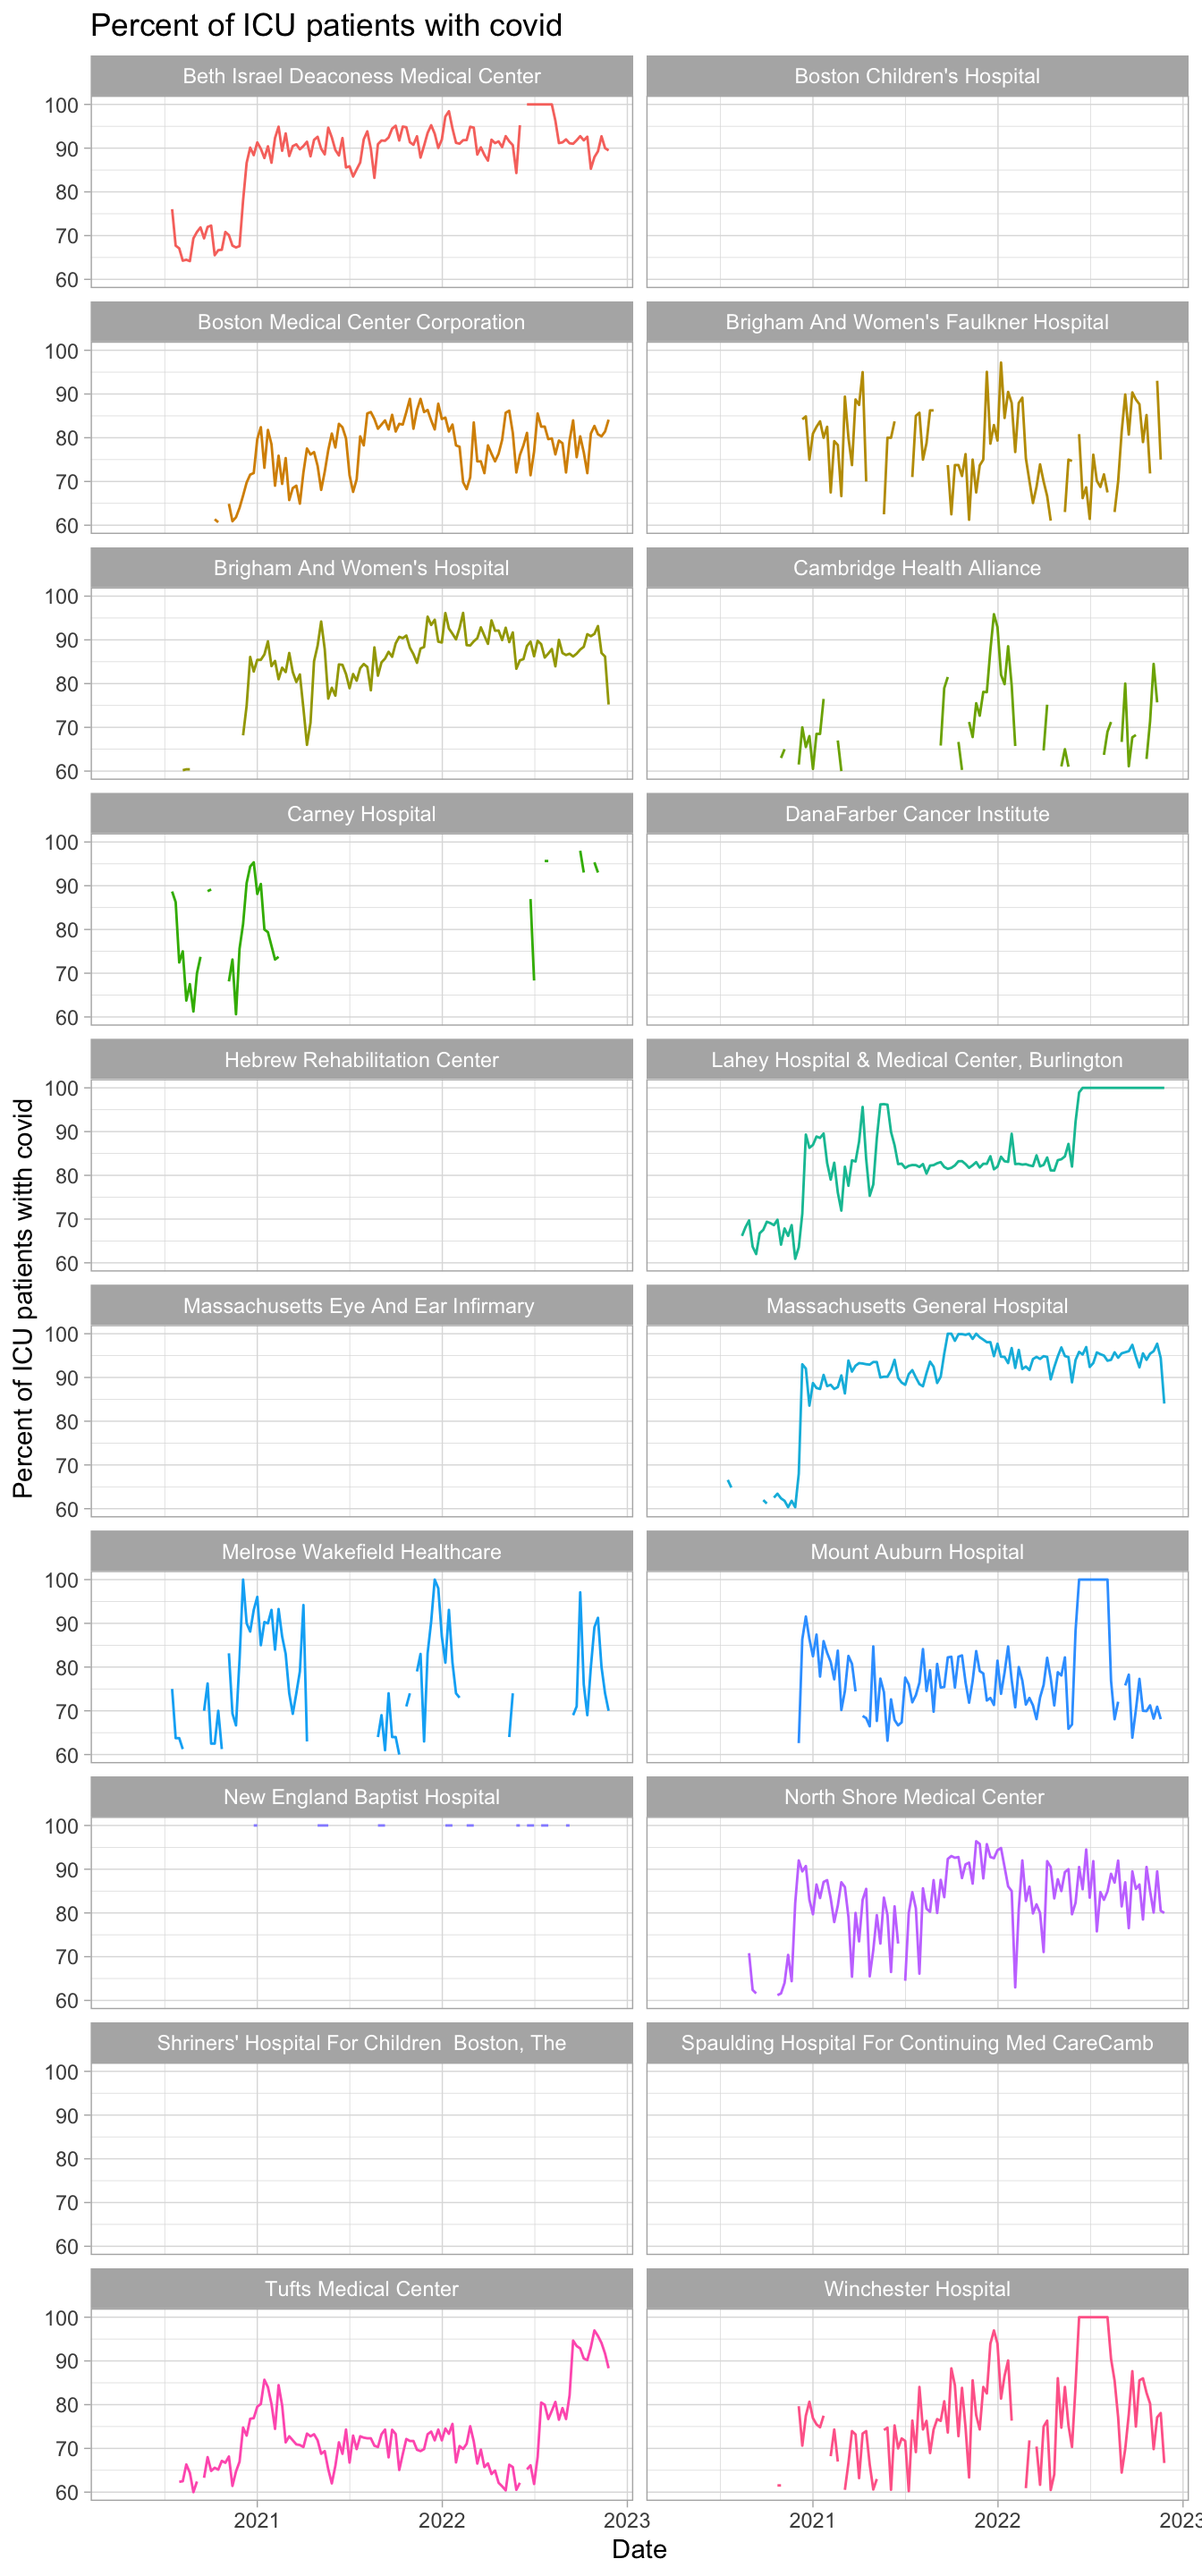
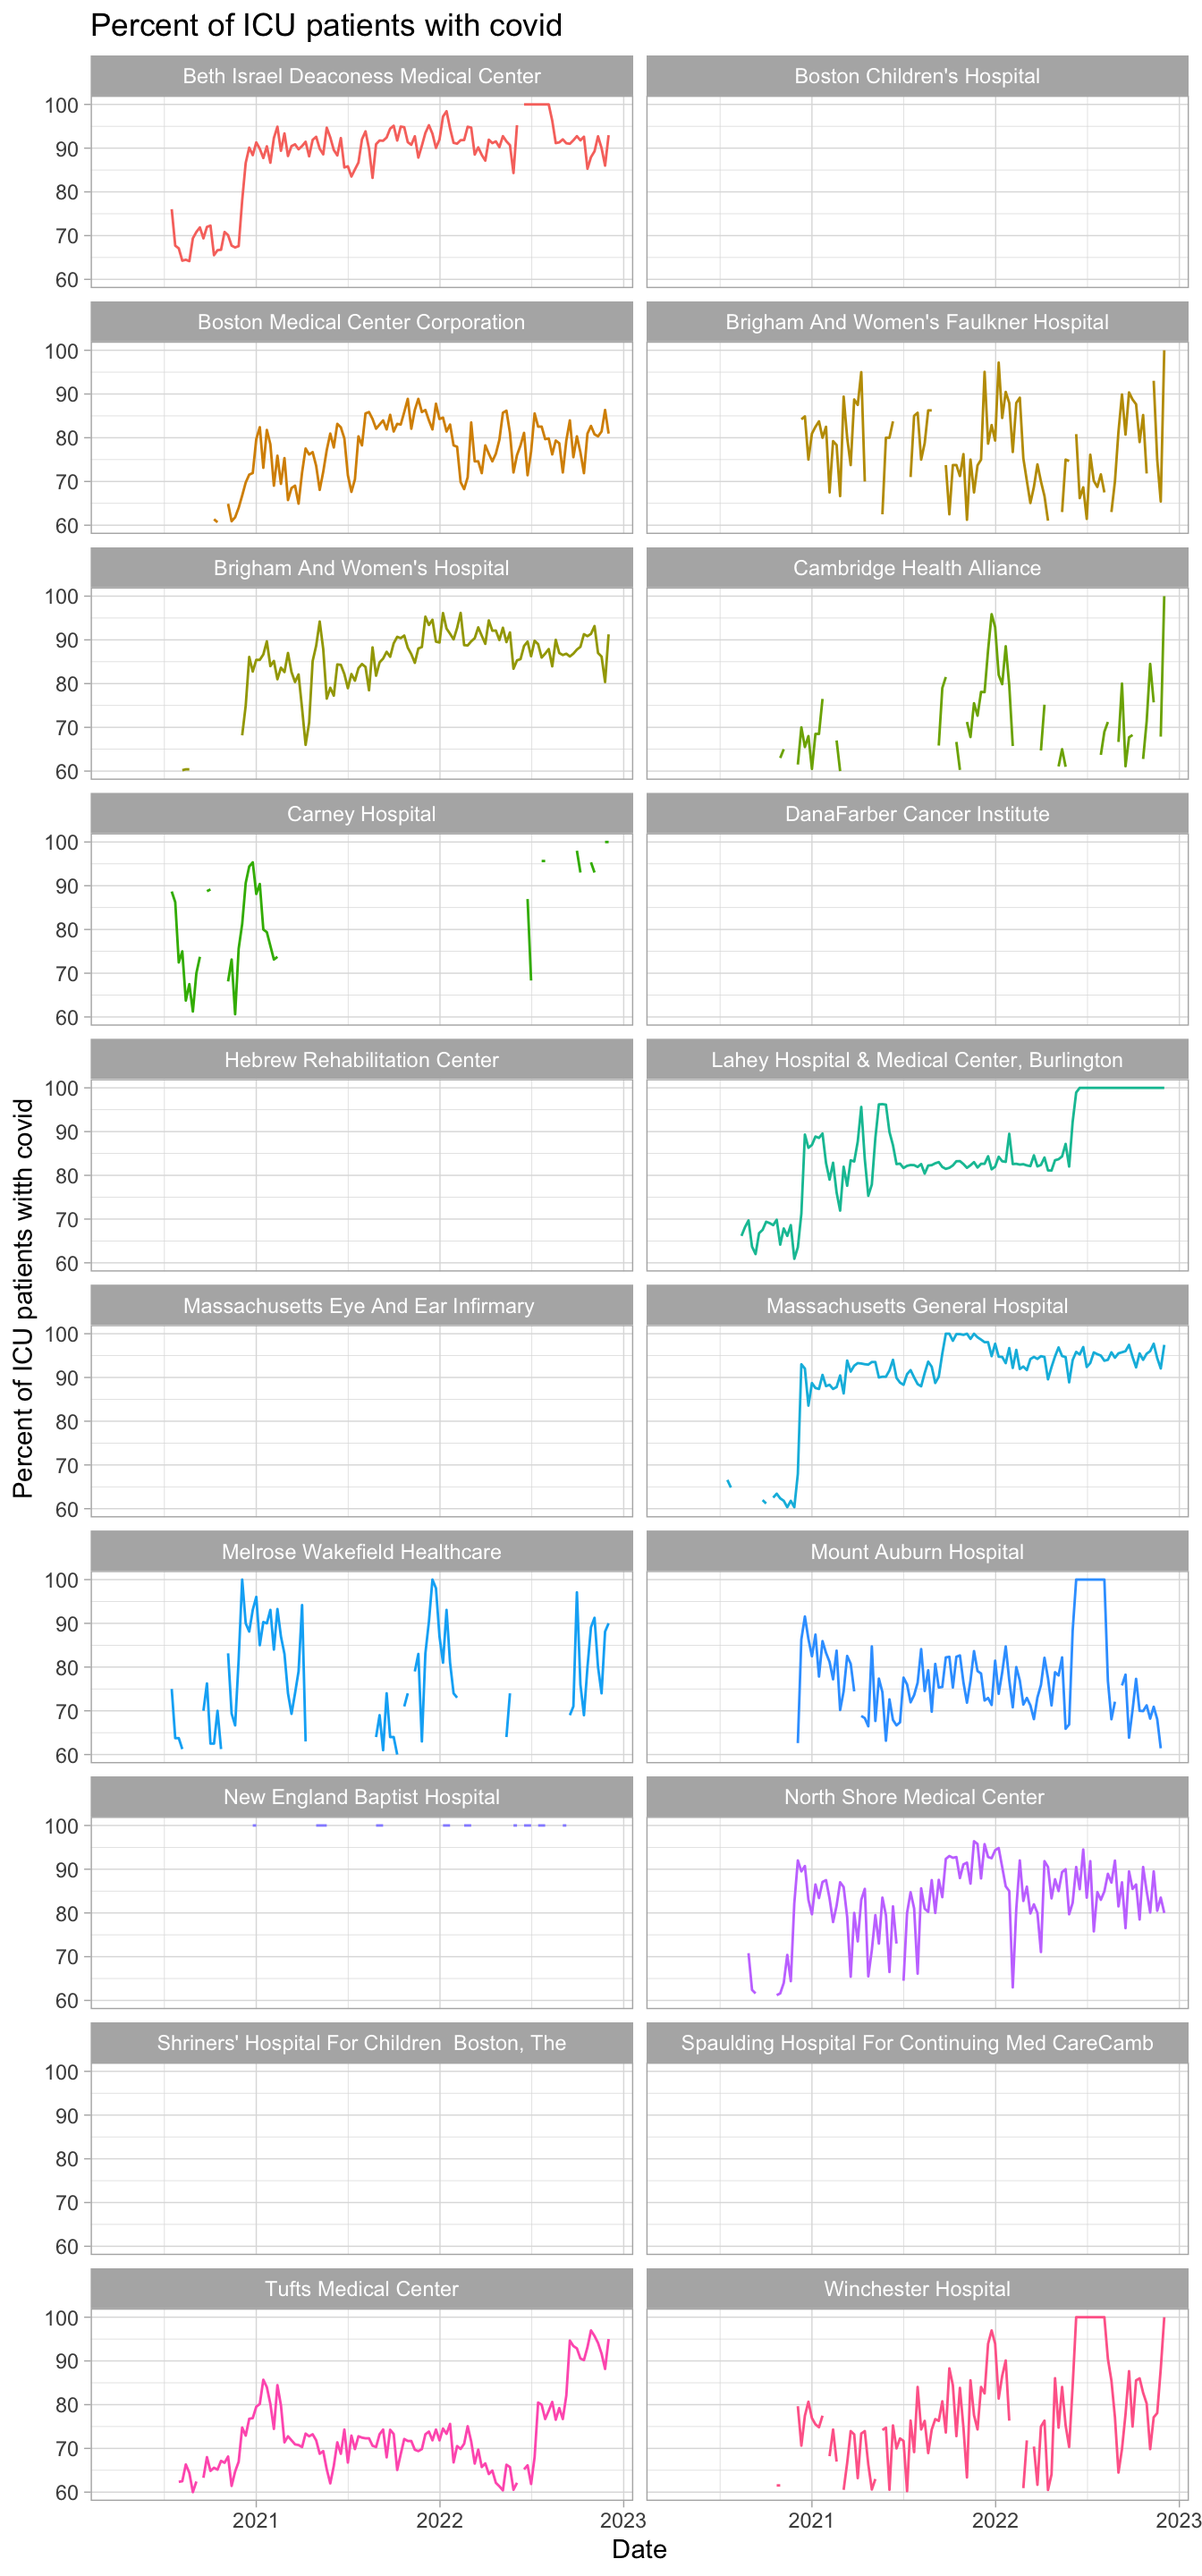
updated data

diff --git a/docs/index.html b/docs/index.html
@@ -307,7 +307,7 @@ it could indicate that many other cases are being missed).</p>
 <p>The US Department of Health and Human Services gives data on hospital
 usage. Here are data of ICU bed availability for hospitals in this area
 with at least 25 staffed ICU beds, using data from the week starting
-2022-11-25.</p>
+2022-12-02.</p>
 <table>
 <colgroup>
 <col width="46%" />
@@ -326,45 +326,45 @@ with at least 25 staffed ICU beds, using data from the week starting
 <tbody>
 <tr class="odd">
 <td align="left">Beth Israel Deaconess Medical Center</td>
-<td align="right">13</td>
-<td align="right">134</td>
-<td align="right">90</td>
+<td align="right">6</td>
+<td align="right">129</td>
+<td align="right">95</td>
 </tr>
 <tr class="even">
 <td align="left">Boston Children’s Hospital</td>
-<td align="right">17</td>
+<td align="right">2</td>
 <td align="right">134</td>
-<td align="right">87</td>
+<td align="right">99</td>
 </tr>
 <tr class="odd">
 <td align="left">Boston Medical Center Corporation</td>
-<td align="right">13</td>
+<td align="right">16</td>
 <td align="right">88</td>
-<td align="right">85</td>
+<td align="right">82</td>
 </tr>
 <tr class="even">
 <td align="left">Brigham And Women’s Hospital</td>
-<td align="right">27</td>
-<td align="right">162</td>
-<td align="right">83</td>
+<td align="right">9</td>
+<td align="right">147</td>
+<td align="right">94</td>
 </tr>
 <tr class="odd">
 <td align="left">Lahey Hospital &amp; Medical Center, Burlington</td>
 <td align="right">0</td>
-<td align="right">32</td>
+<td align="right">40</td>
 <td align="right">100</td>
 </tr>
 <tr class="even">
 <td align="left">Massachusetts General Hospital</td>
-<td align="right">19</td>
-<td align="right">151</td>
-<td align="right">87</td>
+<td align="right">3</td>
+<td align="right">149</td>
+<td align="right">98</td>
 </tr>
 <tr class="odd">
 <td align="left">Tufts Medical Center</td>
-<td align="right">24</td>
+<td align="right">19</td>
 <td align="right">102</td>
-<td align="right">76</td>
+<td align="right">81</td>
 </tr>
 </tbody>
 </table>
@@ -376,7 +376,7 @@ in the state:</p>
 <p>And those intubated:</p>
 <p><img src="index_files/figure-html/unnamed-chunk-7-1.png" width="672" /></p>
 <p>Plotting percentage of ICU patients with covid over time (up to the
-week starting 2022-11-25). Some hospitals have much more frequently
+week starting 2022-12-02). Some hospitals have much more frequently
 updated data than others; some is fairly gappy. This just plots the
 hospitals that average at least 25 staffed <em>adult</em> ICU beds per
 week.</p>

diff --git a/docs/individualhospitals.html b/docs/individualhospitals.html
@@ -302,45 +302,45 @@ usage. Here are data for hospitals in this area.</p>
 <tbody>
 <tr class="odd">
 <td align="left">Beth Israel Deaconess Medical Center</td>
-<td align="right">13</td>
-<td align="right">134</td>
-<td align="right">90</td>
+<td align="right">6</td>
+<td align="right">129</td>
+<td align="right">95</td>
 </tr>
 <tr class="even">
 <td align="left">Boston Children’s Hospital</td>
-<td align="right">17</td>
+<td align="right">2</td>
 <td align="right">134</td>
-<td align="right">87</td>
+<td align="right">99</td>
 </tr>
 <tr class="odd">
 <td align="left">Boston Medical Center Corporation</td>
-<td align="right">13</td>
+<td align="right">16</td>
 <td align="right">88</td>
-<td align="right">85</td>
+<td align="right">82</td>
 </tr>
 <tr class="even">
 <td align="left">Brigham And Women’s Hospital</td>
-<td align="right">27</td>
-<td align="right">162</td>
-<td align="right">83</td>
+<td align="right">9</td>
+<td align="right">147</td>
+<td align="right">94</td>
 </tr>
 <tr class="odd">
 <td align="left">Lahey Hospital &amp; Medical Center, Burlington</td>
 <td align="right">0</td>
-<td align="right">32</td>
+<td align="right">40</td>
 <td align="right">100</td>
 </tr>
 <tr class="even">
 <td align="left">Massachusetts General Hospital</td>
-<td align="right">19</td>
-<td align="right">151</td>
-<td align="right">87</td>
+<td align="right">3</td>
+<td align="right">149</td>
+<td align="right">98</td>
 </tr>
 <tr class="odd">
 <td align="left">Tufts Medical Center</td>
-<td align="right">24</td>
+<td align="right">19</td>
 <td align="right">102</td>
-<td align="right">76</td>
+<td align="right">81</td>
 </tr>
 </tbody>
 </table>
